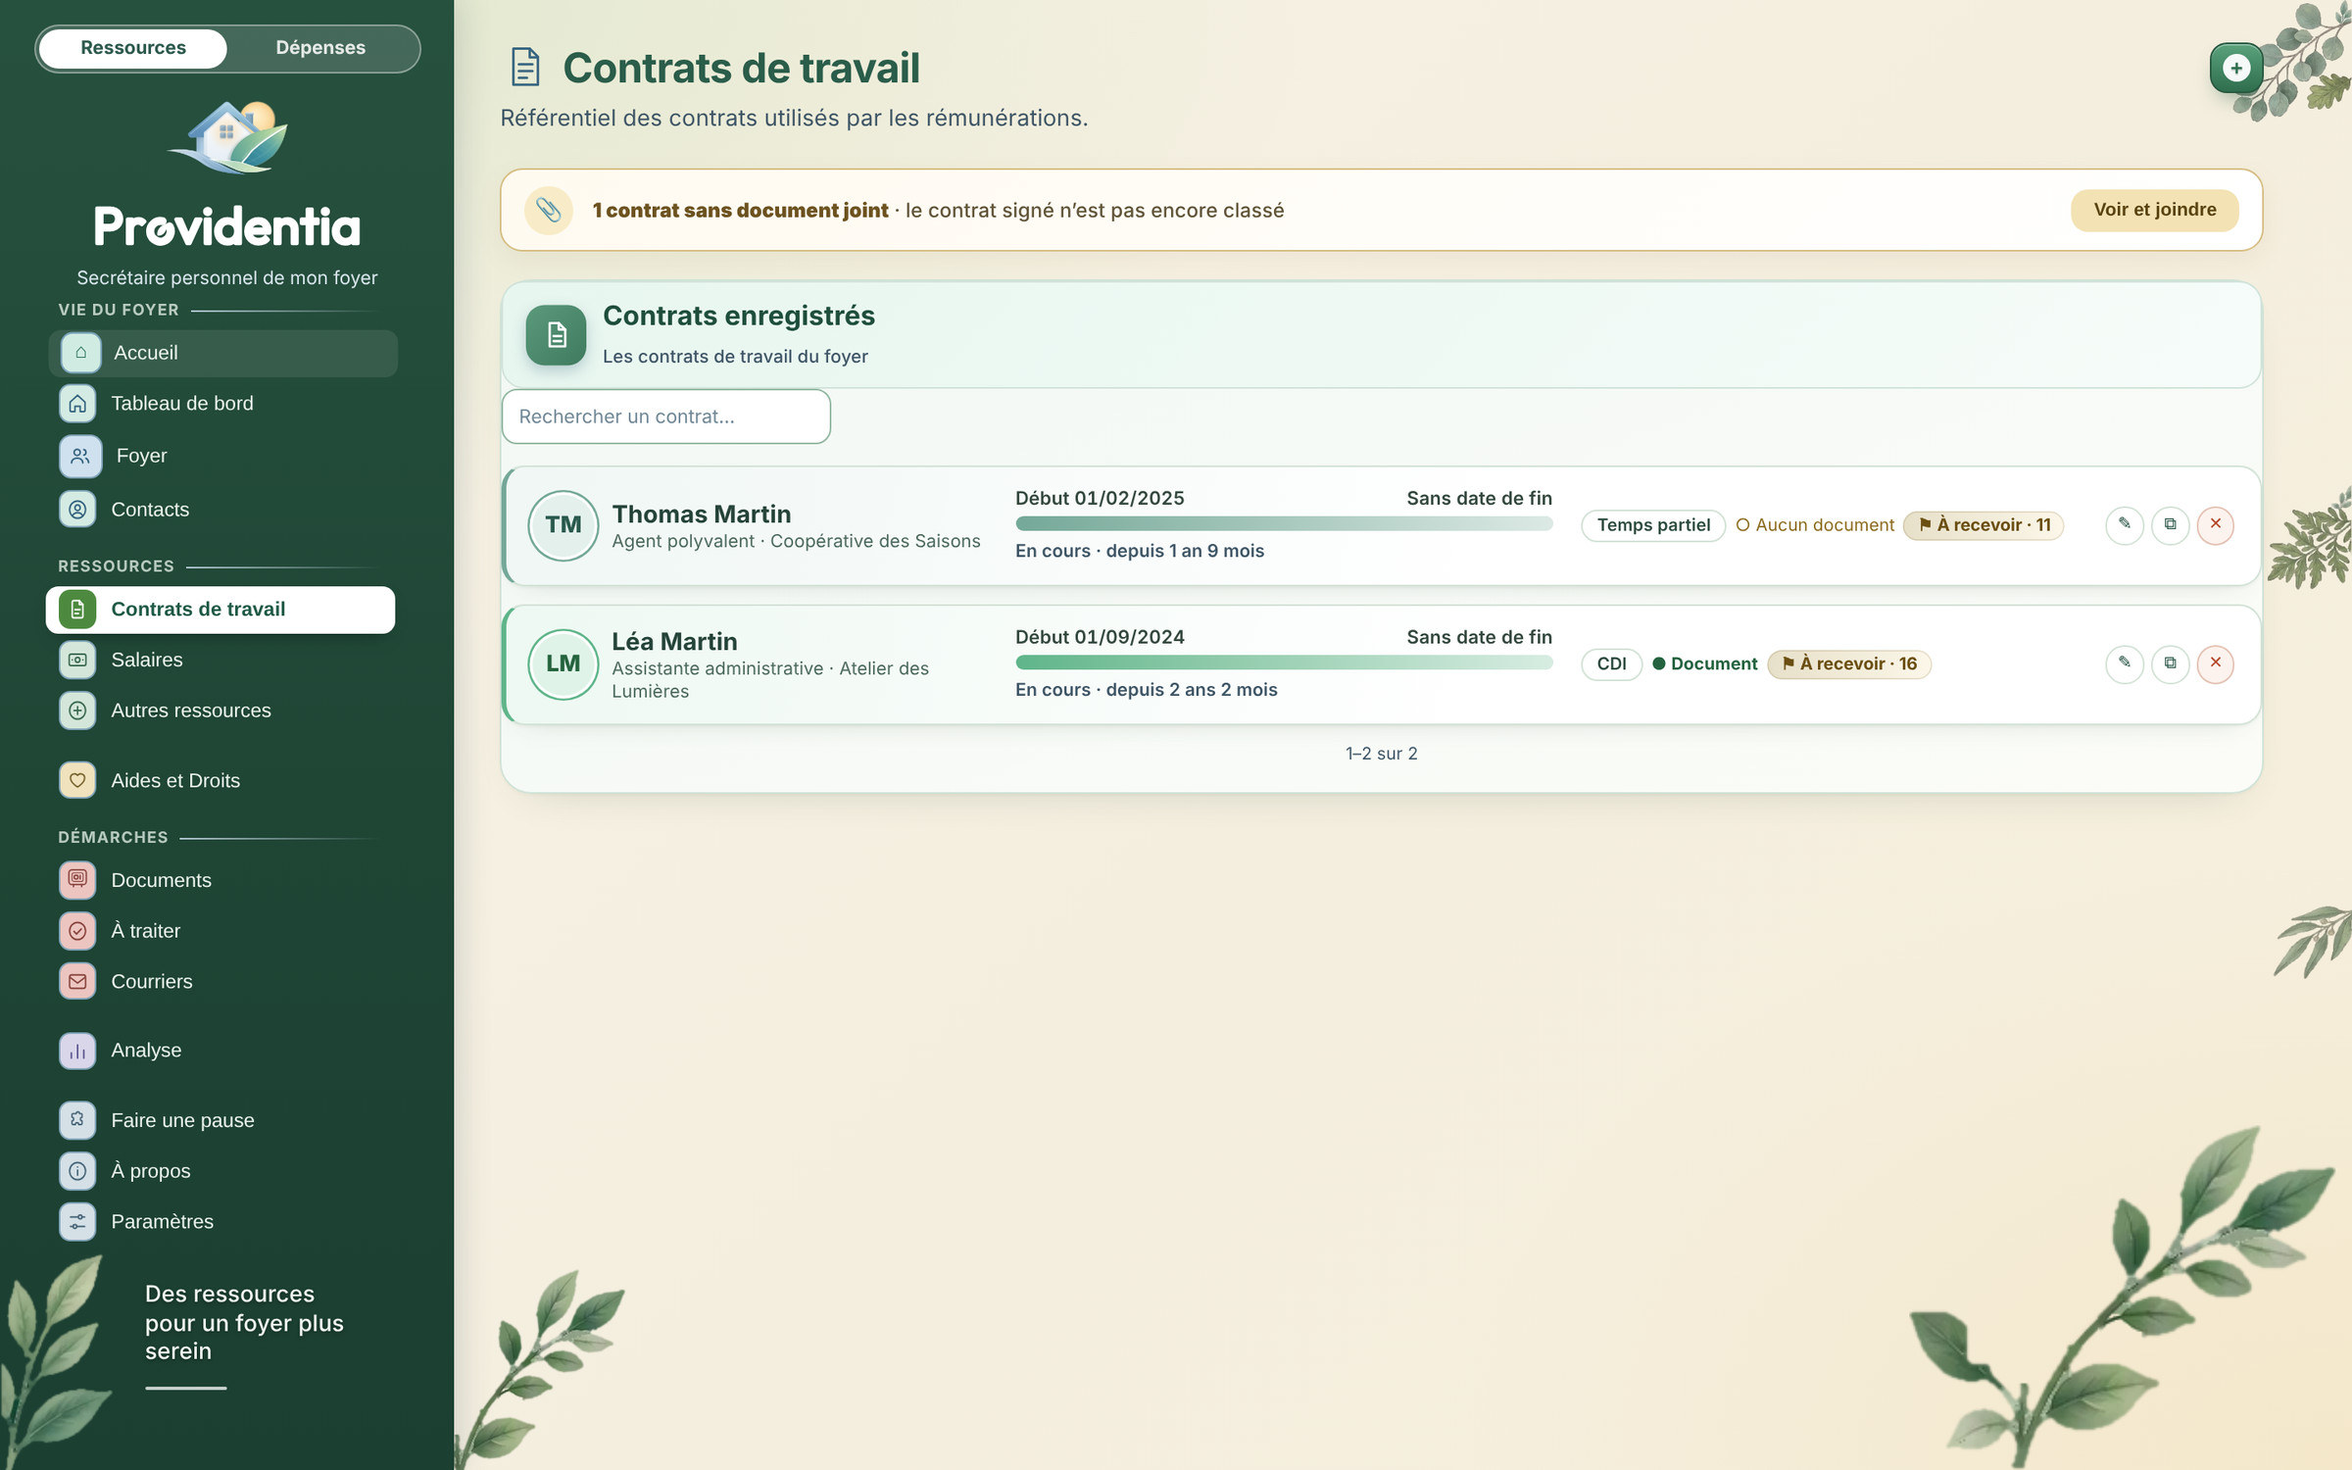
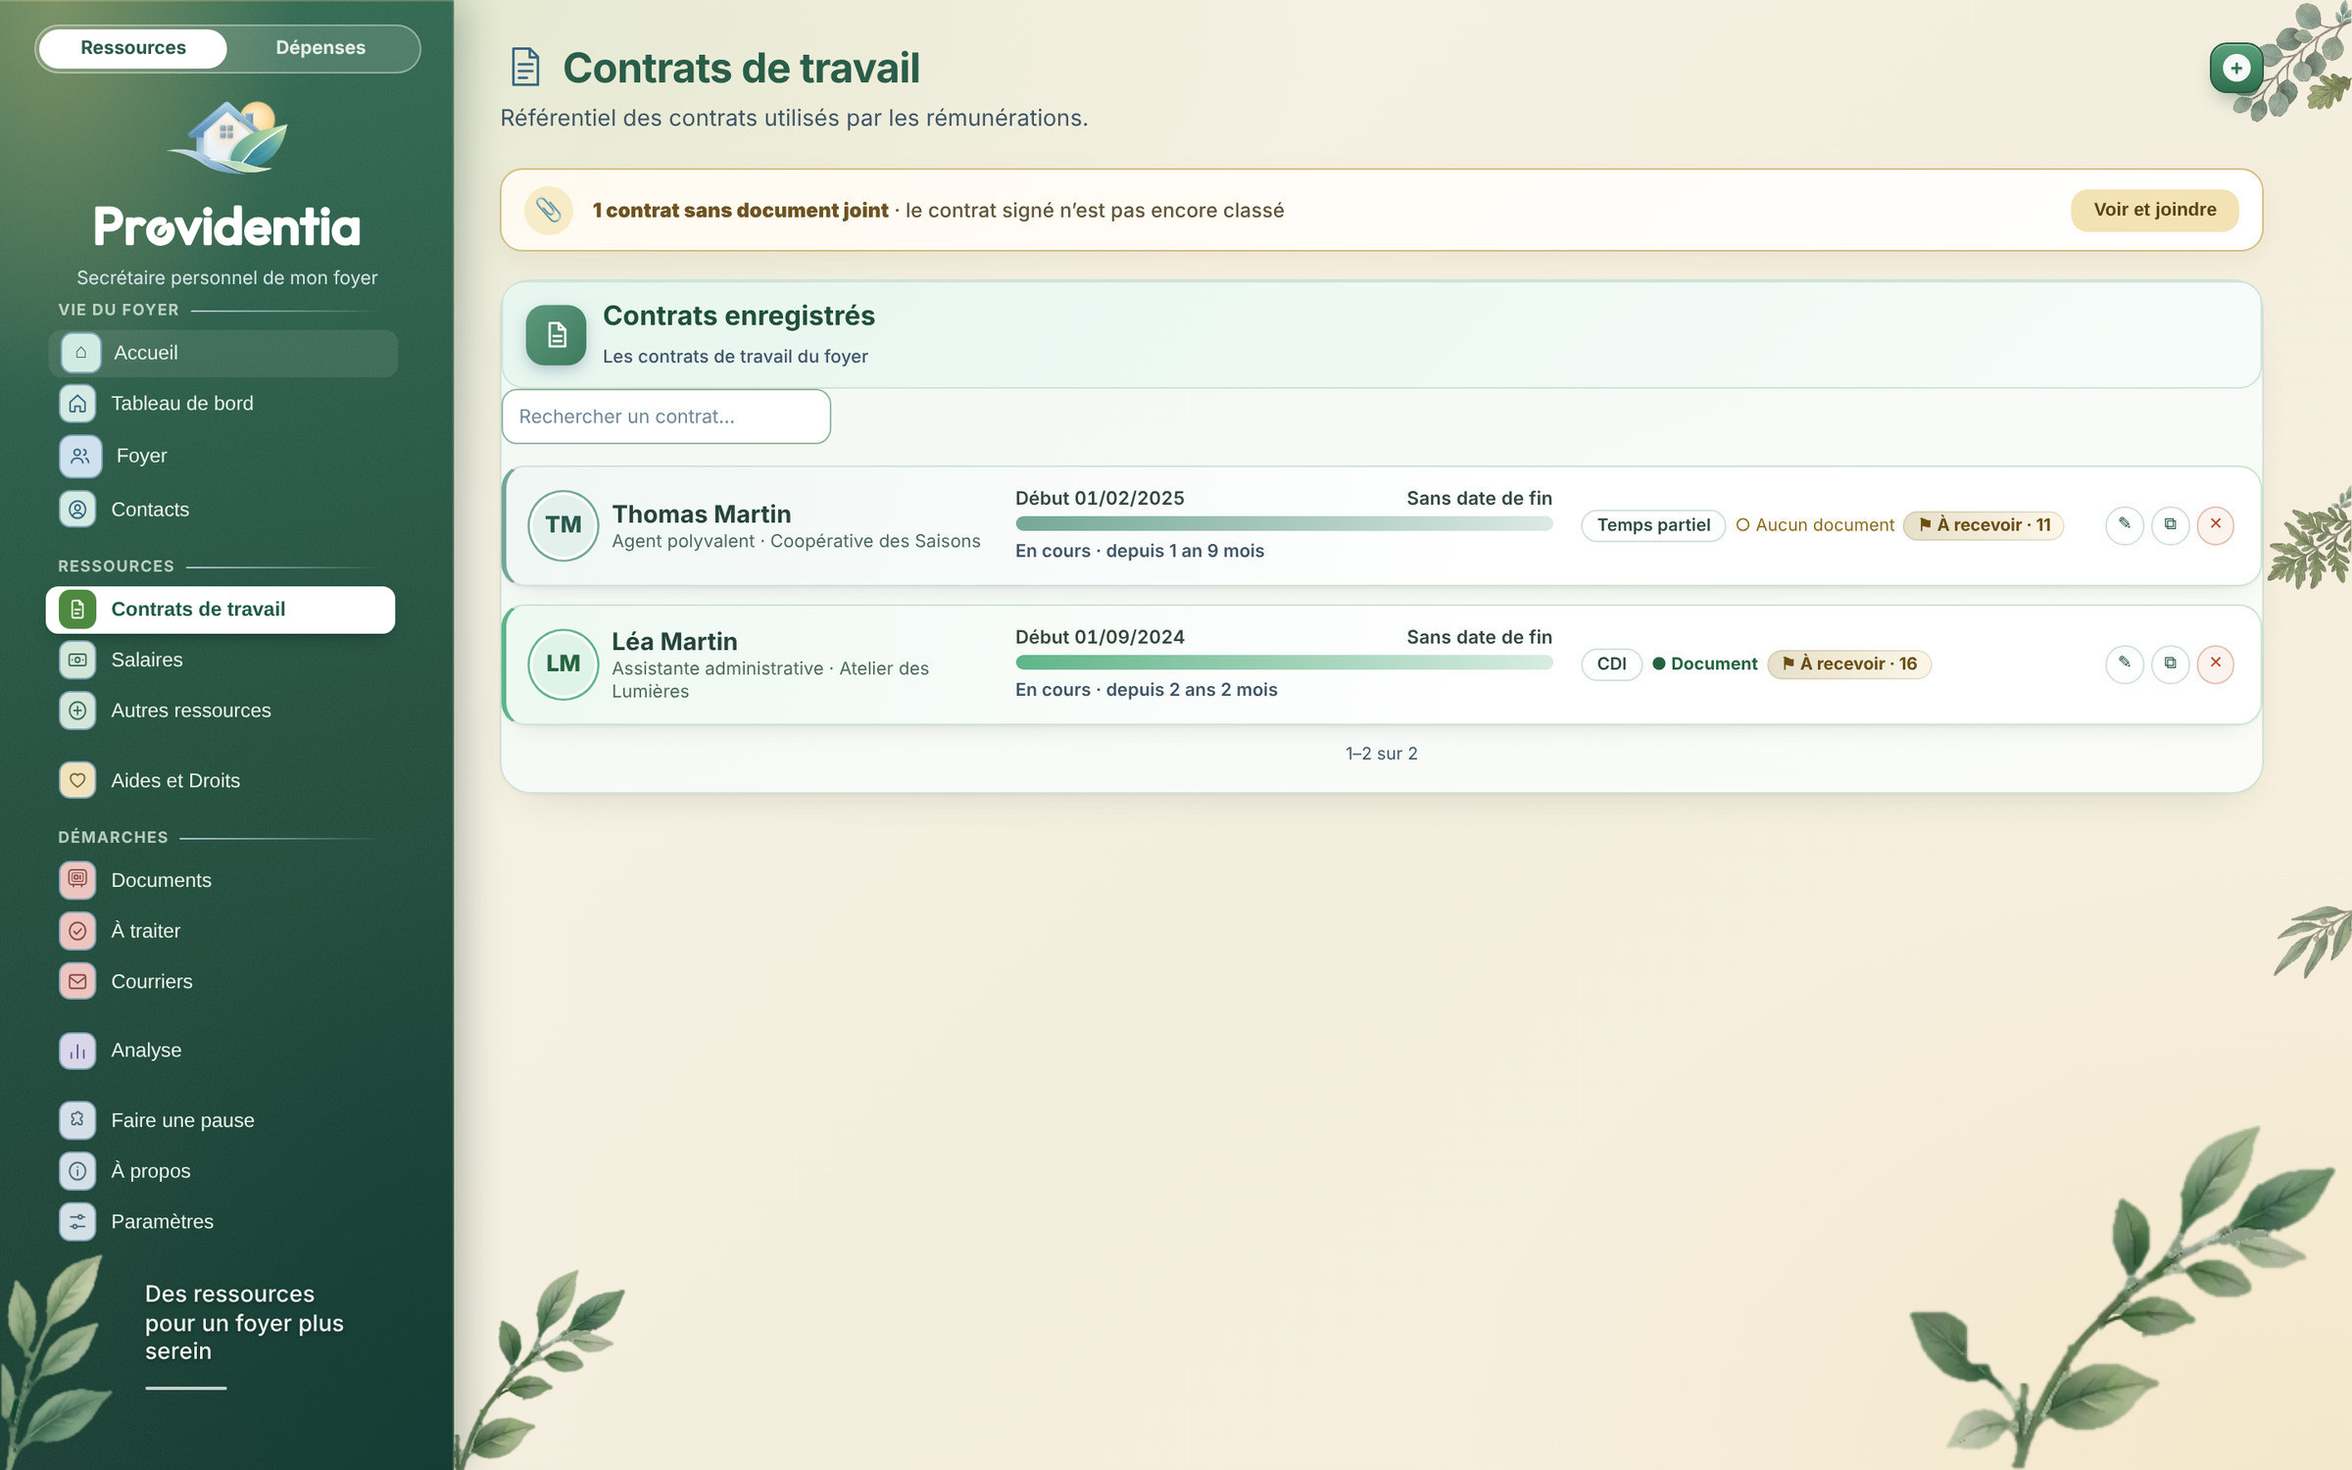
Captures du site : nouveaux menus de gauche (Aube dorée / Aurore)
Claude-Session: https://claude.ai/code/session_01RA8xAmmrXVRgUB3XPSfCSo

Changed region(s): [[0.0, 0.0, 0.2188, 0.276]]

diff --git a/index.html b/index.html
@@ -334,9 +334,9 @@ footer .links a{margin-right:16px}
     <div class="wrap">
       <div class="head"><span class="eyebrow">Deux espaces, un foyer</span><h2>Ce qui entre, ce qui sort.</h2></div>
       <div class="duo">
-        <a class="space res" href="#ressources"><div class="pic"><img src="img/res_tableau.jpg?v=5" width="2400" height="1500" alt="Tableau de bord de l’espace Ressources" loading="lazy"></div>
+        <a class="space res" href="#ressources"><div class="pic"><img src="img/res_tableau.jpg?v=7" width="2400" height="1500" alt="Tableau de bord de l’espace Ressources" loading="lazy"></div>
           <div class="tx"><h3>Ressources</h3><p>Contrats de travail, salaires, aides et droits, documents, courriers et analyse : tout ce qui rentre dans le foyer.</p><span class="go">Parcourir l’espace →</span></div></a>
-        <a class="space dep" href="#depenses"><div class="pic"><img src="img/dep_reste.jpg?v=5" width="2400" height="1500" alt="Page « Reste à vivre » de l’espace Dépenses" loading="lazy"></div>
+        <a class="space dep" href="#depenses"><div class="pic"><img src="img/dep_reste.jpg?v=7" width="2400" height="1500" alt="Page « Reste à vivre » de l’espace Dépenses" loading="lazy"></div>
           <div class="tx"><h3>Dépenses</h3><p>Frais obligatoires, crédits et dettes, reste à vivre, dossiers de réclamation et projets : tout ce qui sort.</p><span class="go">Parcourir l’espace →</span></div></a>
       </div>
     </div>
@@ -378,14 +378,14 @@ footer .links a{margin-right:16px}
       <div class="show res" data-show>
         <div class="list" role="tablist" aria-label="Pages de l’espace Ressources">
           <button role="tab" aria-selected="true" data-src="img/res_accueil.jpg?v=5" data-alt="Accueil de l’espace Ressources : le geste du moment et cinq tuiles pour agir" data-cap="Chaque matin, un geste à la fois : le plus utile du moment, puis cinq tuiles pour ajouter un contrat, un salaire, une aide, rédiger un courrier ou vérifier ses droits."><b>Accueil</b><span>Le geste du moment, cinq tuiles</span></button>
-          <button role="tab" aria-selected="false" data-src="img/res_tableau.jpg?v=5" data-alt="Tableau de bord : ressources du mois, démarches à faire, répartition mensuelle" data-cap="Où en est mon foyer ? Les ressources de l’année, ce qu’il faut faire maintenant et ce qui arrive, en un coup d’œil."><b>Tableau de bord</b><span>L’état du foyer en un coup d’œil</span></button>
-          <button role="tab" aria-selected="false" data-src="img/res_contrats.jpg?v=5" data-alt="Contrats de travail : liste des contrats avec leur document" data-cap="Chaque contrat est rangé avec son document. Providentia signale ceux dont le contrat signé n’est pas encore classé."><b>Contrats de travail</b><span>Chaque contrat, avec son document</span></button>
-          <button role="tab" aria-selected="false" data-src="img/res_salaires.jpg?v=5" data-alt="Salaires : bulletins par mois avec total, net moyen et heures" data-cap="Chaque rémunération est reliée à son contrat et à son bulletin. Le total, le net moyen et les heures du mois se lisent à droite."><b>Salaires</b><span>Bulletins, net, heures</span></button>
-          <button role="tab" aria-selected="false" data-src="img/res_aides.jpg?v=5" data-alt="Aides et droits : aides enregistrées par organisme" data-cap="Les aides reçues, organisme par organisme, avec leur fréquence. « Vérifier les droits » propose des pistes à examiner."><b>Aides et droits</b><span>Ce qui est versé, ce qui est à vérifier</span></button>
-          <button role="tab" aria-selected="false" data-src="img/res_analyse.jpg?v=5" data-alt="Analyse : évolution mensuelle des ressources par membre du foyer" data-cap="D’où vient l’argent du foyer, et qui y contribue ? Évolution mois par mois, répartition entre salaires, aides et autres ressources."><b>Analyse</b><span>D’où vient l’argent du foyer</span></button>
-          <button role="tab" aria-selected="false" data-src="img/res_documents.jpg?v=5" data-alt="Documents : coffre-fort classé par type, personne et employeur" data-cap="Un coffre-fort de documents : bulletins, contrats, justificatifs, classés par type, par personne et par employeur."><b>Documents</b><span>Le coffre-fort du foyer</span></button>
-          <button role="tab" aria-selected="false" data-src="img/res_traiter.jpg?v=5" data-alt="À traiter : démarches classées de la plus pressée à la plus tranquille" data-cap="Une chose à la fois : les démarches sont classées de la plus pressée à la plus tranquille, avec un bouton pour les démarrer."><b>À traiter</b><span>Une démarche à la fois</span></button>
-          <button role="tab" aria-selected="false" data-src="img/res_foyer.jpg?v=5" data-alt="Foyer : logement, loyer, charges et membres" data-cap="Le logement (loyer, charges, total) et les personnes qui composent le foyer, réunis au même endroit."><b>Foyer</b><span>Logement et membres</span></button>
+          <button role="tab" aria-selected="false" data-src="img/res_tableau.jpg?v=7" data-alt="Tableau de bord : ressources du mois, démarches à faire, répartition mensuelle" data-cap="Où en est mon foyer ? Les ressources de l’année, ce qu’il faut faire maintenant et ce qui arrive, en un coup d’œil."><b>Tableau de bord</b><span>L’état du foyer en un coup d’œil</span></button>
+          <button role="tab" aria-selected="false" data-src="img/res_contrats.jpg?v=7" data-alt="Contrats de travail : liste des contrats avec leur document" data-cap="Chaque contrat est rangé avec son document. Providentia signale ceux dont le contrat signé n’est pas encore classé."><b>Contrats de travail</b><span>Chaque contrat, avec son document</span></button>
+          <button role="tab" aria-selected="false" data-src="img/res_salaires.jpg?v=7" data-alt="Salaires : bulletins par mois avec total, net moyen et heures" data-cap="Chaque rémunération est reliée à son contrat et à son bulletin. Le total, le net moyen et les heures du mois se lisent à droite."><b>Salaires</b><span>Bulletins, net, heures</span></button>
+          <button role="tab" aria-selected="false" data-src="img/res_aides.jpg?v=7" data-alt="Aides et droits : aides enregistrées par organisme" data-cap="Les aides reçues, organisme par organisme, avec leur fréquence. « Vérifier les droits » propose des pistes à examiner."><b>Aides et droits</b><span>Ce qui est versé, ce qui est à vérifier</span></button>
+          <button role="tab" aria-selected="false" data-src="img/res_analyse.jpg?v=7" data-alt="Analyse : évolution mensuelle des ressources par membre du foyer" data-cap="D’où vient l’argent du foyer, et qui y contribue ? Évolution mois par mois, répartition entre salaires, aides et autres ressources."><b>Analyse</b><span>D’où vient l’argent du foyer</span></button>
+          <button role="tab" aria-selected="false" data-src="img/res_documents.jpg?v=7" data-alt="Documents : coffre-fort classé par type, personne et employeur" data-cap="Un coffre-fort de documents : bulletins, contrats, justificatifs, classés par type, par personne et par employeur."><b>Documents</b><span>Le coffre-fort du foyer</span></button>
+          <button role="tab" aria-selected="false" data-src="img/res_traiter.jpg?v=7" data-alt="À traiter : démarches classées de la plus pressée à la plus tranquille" data-cap="Une chose à la fois : les démarches sont classées de la plus pressée à la plus tranquille, avec un bouton pour les démarrer."><b>À traiter</b><span>Une démarche à la fois</span></button>
+          <button role="tab" aria-selected="false" data-src="img/res_foyer.jpg?v=7" data-alt="Foyer : logement, loyer, charges et membres" data-cap="Le logement (loyer, charges, total) et les personnes qui composent le foyer, réunis au même endroit."><b>Foyer</b><span>Logement et membres</span></button>
         </div>
         <figure class="stage" style="margin:0"><div class="wbox"><div class="win"><div class="chrome"><i></i><i></i><i></i></div><img data-stage src="img/res_accueil.jpg?v=5" width="2400" height="1500" alt="Accueil de l’espace Ressources : le geste du moment et cinq tuiles pour agir"></div></div><figcaption data-cap-out>Chaque matin, un geste à la fois : le plus utile du moment, puis cinq tuiles pour ajouter un contrat, un salaire, une aide, rédiger un courrier ou vérifier ses droits.</figcaption></figure>
       </div>
@@ -409,11 +409,11 @@ footer .links a{margin-right:16px}
       <div class="show dep" data-show>
         <div class="list" role="tablist" aria-label="Pages de l’espace Dépenses">
           <button role="tab" aria-selected="true" data-src="img/dep_accueil.jpg?v=6" data-alt="Accueil des Dépenses : le geste du moment et cinq grandes tuiles" data-cap="Le portail d’accueil propose le geste du moment (ici, régler un prêt), puis cinq grandes entrées : engagement, dépense, échéances, problème, reste à vivre."><b>Accueil</b><span>Le geste du moment</span></button>
-          <button role="tab" aria-selected="false" data-src="img/dep_frais.jpg?v=5" data-alt="Frais obligatoires : total, répartition par catégorie et liste des dépenses" data-cap="Loyer, assurances, énergie, télécom : le total des frais obligatoires, leur répartition par catégorie et la liste, avec ce qui est déjà réglé."><b>Frais obligatoires</b><span>Loyer, assurances, énergie…</span></button>
-          <button role="tab" aria-selected="false" data-src="img/dep_credits.jpg?v=5" data-alt="Crédits et dettes : reste dû, mensualités et liste des crédits" data-cap="Le reste dû, les mensualités et le taux d’endettement se calculent à partir des crédits saisis ; la liste détaille chaque crédit."><b>Crédits et dettes</b><span>Reste dû et mensualités</span></button>
-          <button role="tab" aria-selected="false" data-src="img/dep_reste.jpg?v=5" data-alt="Reste à vivre : ce qu’il reste après les charges du mois" data-cap="Que reste-t-il après les charges du mois ? Le reste à vivre, par jour et sur le mois, avec les échéances à venir et une simulation « Et si je dépense… ? »."><b>Reste à vivre</b><span>Ce qu’il reste après les charges</span></button>
-          <button role="tab" aria-selected="false" data-src="img/dep_dossiers.jpg?v=5" data-alt="Dossiers : un litige suivi étape par étape" data-cap="Un litige, une facture contestée : chaque dossier avance étape par étape, jusqu’au courrier de réclamation que vous relisez avant l’envoi."><b>Dossiers</b><span>Réclamations, étape par étape</span></button>
-          <button role="tab" aria-selected="false" data-src="img/dep_projets.jpg?v=5" data-alt="Projets : budget, étapes et dates" data-cap="Un projet, une étape après l’autre : budget, étapes à franchir, dépenses réalisées et échéances à surveiller."><b>Projets</b><span>Un objectif, des étapes</span></button>
+          <button role="tab" aria-selected="false" data-src="img/dep_frais.jpg?v=7" data-alt="Frais obligatoires : total, répartition par catégorie et liste des dépenses" data-cap="Loyer, assurances, énergie, télécom : le total des frais obligatoires, leur répartition par catégorie et la liste, avec ce qui est déjà réglé."><b>Frais obligatoires</b><span>Loyer, assurances, énergie…</span></button>
+          <button role="tab" aria-selected="false" data-src="img/dep_credits.jpg?v=7" data-alt="Crédits et dettes : reste dû, mensualités et liste des crédits" data-cap="Le reste dû, les mensualités et le taux d’endettement se calculent à partir des crédits saisis ; la liste détaille chaque crédit."><b>Crédits et dettes</b><span>Reste dû et mensualités</span></button>
+          <button role="tab" aria-selected="false" data-src="img/dep_reste.jpg?v=7" data-alt="Reste à vivre : ce qu’il reste après les charges du mois" data-cap="Que reste-t-il après les charges du mois ? Le reste à vivre, par jour et sur le mois, avec les échéances à venir et une simulation « Et si je dépense… ? »."><b>Reste à vivre</b><span>Ce qu’il reste après les charges</span></button>
+          <button role="tab" aria-selected="false" data-src="img/dep_dossiers.jpg?v=7" data-alt="Dossiers : un litige suivi étape par étape" data-cap="Un litige, une facture contestée : chaque dossier avance étape par étape, jusqu’au courrier de réclamation que vous relisez avant l’envoi."><b>Dossiers</b><span>Réclamations, étape par étape</span></button>
+          <button role="tab" aria-selected="false" data-src="img/dep_projets.jpg?v=7" data-alt="Projets : budget, étapes et dates" data-cap="Un projet, une étape après l’autre : budget, étapes à franchir, dépenses réalisées et échéances à surveiller."><b>Projets</b><span>Un objectif, des étapes</span></button>
         </div>
         <figure class="stage" style="margin:0"><div class="wbox"><div class="win"><div class="chrome"><i></i><i></i><i></i></div><img data-stage src="img/dep_accueil.jpg?v=6" width="2400" height="1500" alt="Accueil des Dépenses : le geste du moment et cinq grandes tuiles"></div></div><figcaption data-cap-out>Le portail d’accueil propose le geste du moment (ici, régler un prêt), puis cinq grandes entrées : engagement, dépense, échéances, problème, reste à vivre.</figcaption></figure>
       </div>
